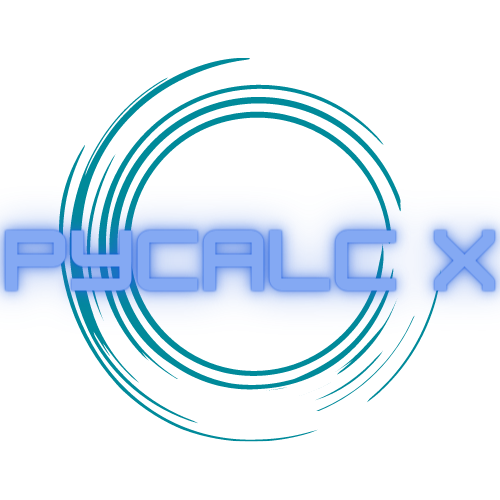
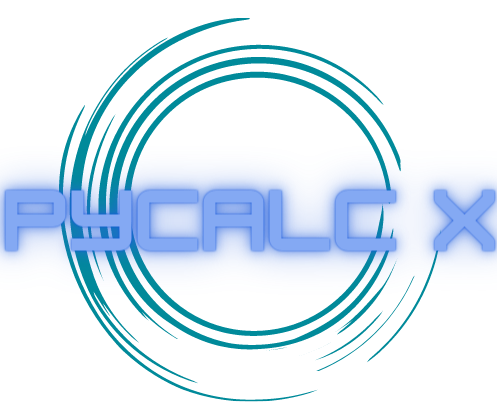
update

diff --git a/website/index.html b/website/index.html
@@ -243,23 +243,30 @@
                     }
 
                 </style>
-                <center>
                     <div class="bg-video-wrap">
                         <video src="tech4.mp4" loop muted autoplay></video>
                             <div class="overlay">
                                 <h1 class="neonText_new" style="padding-top: 100px; padding-bottom: 20px;">
-                                    𝔸𝕓𝕠𝕦𝕥 𝕌𝕤
+                                    <center>𝔸𝕓𝕠𝕦𝕥 𝕌𝕤</center>
                                 </h1>
-                                <div class="alert alert-success" role="alert" style="width:1000px;">
-                                    <p>PyCalc X is a student-run software company comprising of software developers and students interested more on general sciences. We are with the mission to develop and provide software solutions for students, educators and working professionals all across the globe to ease their workflow. The company was formed in 2020 as a coding group comprising of several developers and we have eventually transformed ourselves into a company of global ambitious creators. We also have a large community of 100+ members where users can directly discuss about different topics, suggest developments as well as directly chat with our developers over the publicly open channels. We are still growing and are partnering with small organizations as well to expand our user-base. Connect to know more!</p>
-                                    <hr>
-                                    <p class="mb-0">
-                                        <a class="btn btn-outline-primary" href="https://discord.gg/XXtRyxUxfc" role="button">Connect</a>
+                                <style>
+                                    .containerized {
+                                        display: flex;
+                                        align-items: center;
+                                    }
+                                </style>
+                                <div class="containerized">
+                                    <img style="width:auto; height: auto; flex-basis: 30%;" src="PyCaLC X.png">
+                                    <p style="font-size: 20px; color: white; text-align: justify; padding-left: 30px; padding-right: 10px;">
+                                        PyCalc X is a student-run software company comprising of software developers and students interested more on general sciences. We are with the mission to develop and provide software solutions for students, educators and working professionals all across the globe to ease their workflow. The company was formed in 2020 as a coding group comprising of several developers and we have eventually transformed ourselves into a company of global ambitious creators. We also have a large community of 100+ members where users can directly discuss about different topics, suggest developments as well as directly chat with our developers over the publicly open channels. We are still growing and are partnering with small organizations as well to expand our user-base. Connect to know more!
                                     </p>
+                                </div> 
+                                <div style="padding-left: 530px;padding-bottom: 1000px;">
+                                    <a href="https://discord.gg/XXtRyxUxfc"><button type="button" class="btn btn-primary btn-lg">Join Discord</button></a> 
                                 </div>
-                                <h5 style="color:white;padding-top: 10px;text-align: justify; width: 80.78%;"></h5>
-                                
-                </center>        
+                                <!--<h5 style="color:white;padding-top: 10px;text-align: justify; width: 80.78%;"></h5>-->
+                            </div>    
+                    </div>                    
             </div>    
             <div class="tab-pane fade" id="pills-services" role="tabpanel" aria-labelledby="pills-services-tab">
                 <div class="bg-video-wrap">
